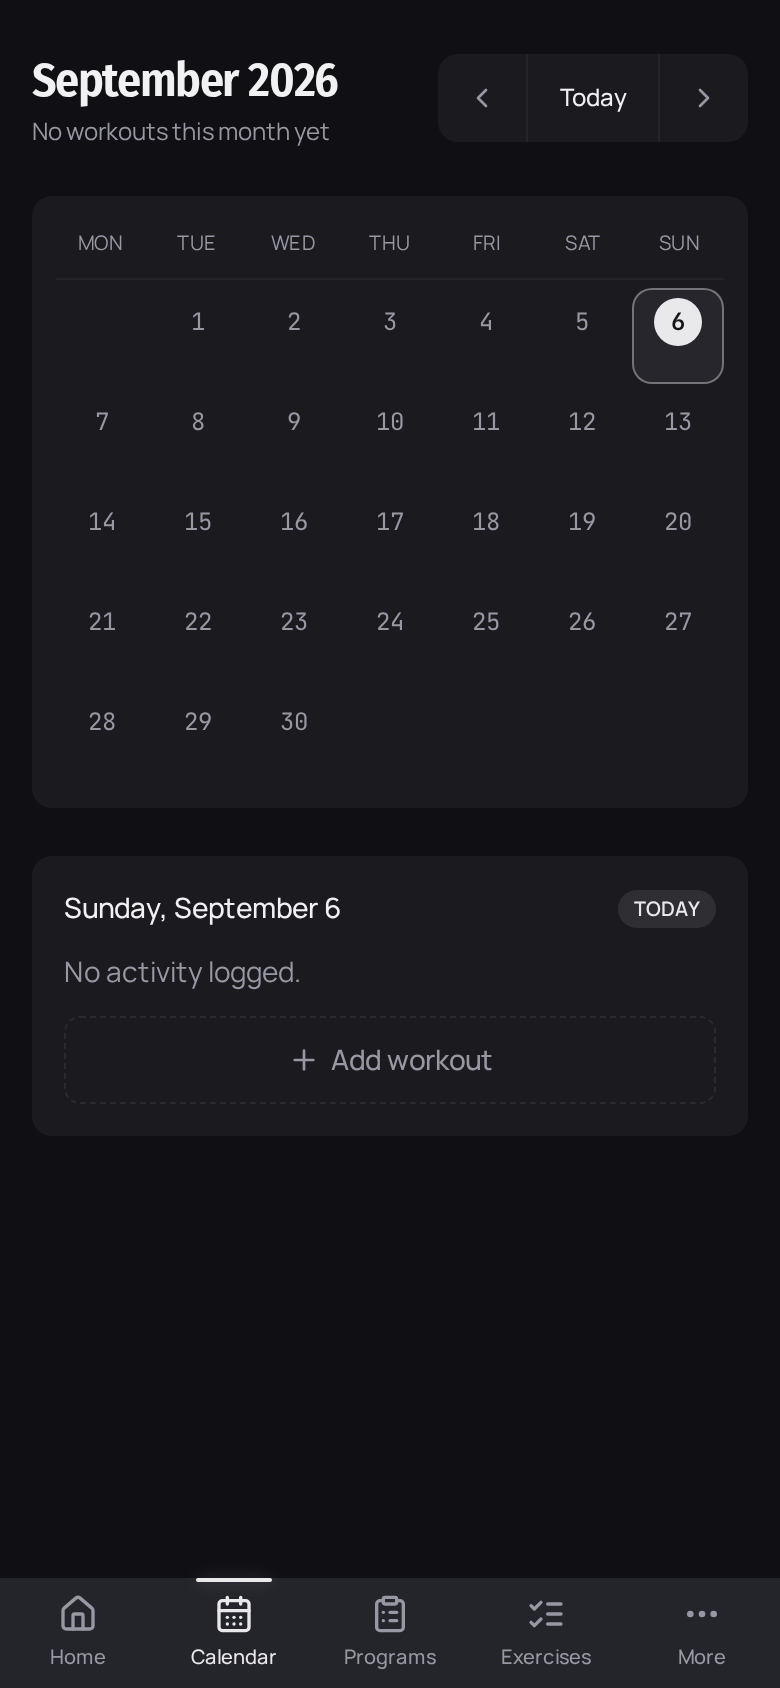
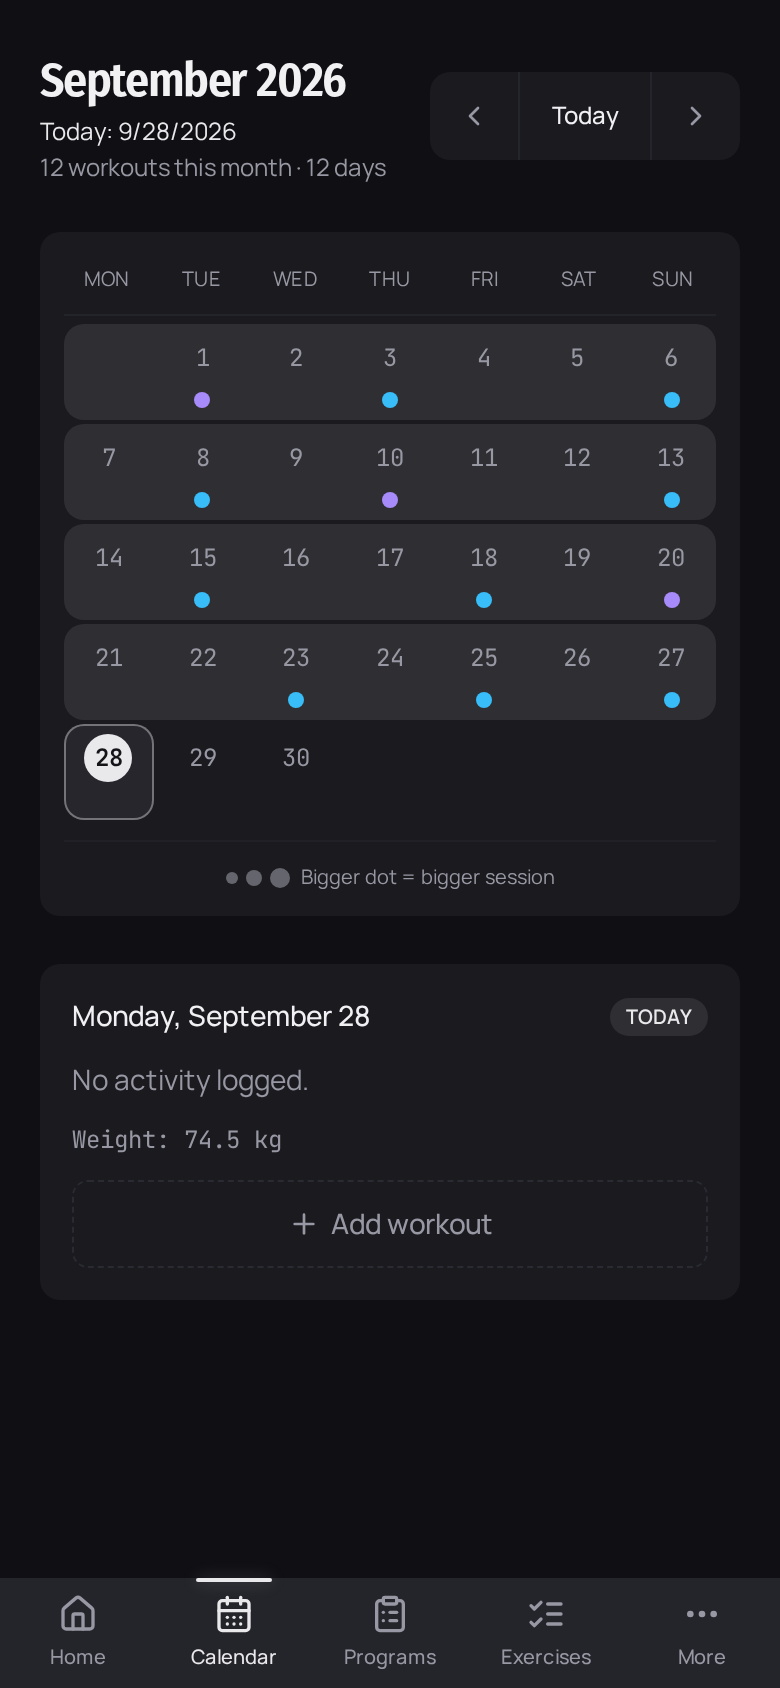
docs: refresh screenshots for calendar-centric navigation
Add a reproducible local-only Demo profile pipeline, capture the current mobile navigation at 390x844 @2x, and rebuild the README hero at 1200x708. Remove the obsolete Workout-tab screenshot.

diff --git a/README.md b/README.md
@@ -14,7 +14,7 @@ Offline-first PWA · native desktop · optional accounts & sync · TypeScript st
 
 **[▶ Live demo](https://anabasis.axonos.dev)** · works offline, no signup required — an account is optional, only to sync across devices
 
-<img src="docs/screenshots/hero.png" alt="Dashboard with skill ladder, calendar, the skill catalogue and the settings hub" width="100%">
+<img src="docs/screenshots/hero.png" alt="Anabasis home, calendar, programs and exercise library on mobile" width="100%">
 
 </div>
 
@@ -134,7 +134,7 @@ cd server && cargo run --release     # Axum + SQLite on :8121
 Screenshots in this README are generated, not hand-taken:
 
 ```bash
-node scripts/shots.mjs        # headless Chromium, 390×844
+node scripts/screenshots/generate.mjs  # isolated Demo profile, 390×844 @2x
 node scripts/gen-brand-assets.mjs   # favicon/PWA/OG from one source of truth
 ```
 

diff --git a/scripts/screenshots/README.md b/scripts/screenshots/README.md
@@ -1,0 +1,18 @@
+# README screenshot pipeline
+
+Run from the repository root:
+
+```bash
+node scripts/screenshots/generate.mjs
+```
+
+The script starts Vite on a random loopback port (never the production ports),
+opens a fresh headless browser context at 390×844 with 2× device pixels, and
+creates a local `Demo` profile with deterministic synthetic training history in
+the app's IndexedDB. API traffic is blocked, so the profile cannot sync or touch
+the live server.
+
+Each current navigation surface is captured into `docs/screenshots/`. The hero
+uses Home, Calendar, Programs, and Exercises, then ImageMagick assembles those
+four captures into an exact 1200×708 image. Playwright uses its bundled Chromium
+when available and falls back to `/usr/bin/brave`.
